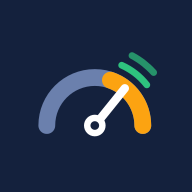
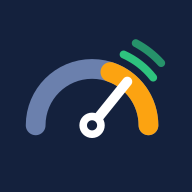
Icône sans bordure, dessin agrandi (même taille que le logiciel) (20261126084854)
Claude-Session: https://claude.ai/code/session_01SWG2T8y1WjfyaaCQCcHqA4

Changed region(s): [[0.125, 0.1875, 0.875, 0.7188]]

diff --git a/index.html b/index.html
@@ -10,10 +10,10 @@
 <meta name="apple-mobile-web-app-status-bar-style" content="default">
 <meta name="mobile-web-app-capable" content="yes">
 <meta name="apple-mobile-web-app-title" content="MCS Suivi">
-<link rel="manifest" href="manifest.webmanifest?v=2">
-<link rel="apple-touch-icon" href="icon-192.png?v=2">
+<link rel="manifest" href="manifest.webmanifest?v=3">
+<link rel="apple-touch-icon" href="icon-192.png?v=3">
 <title>MCS Suivi</title>
-<meta name="mcs-build" content="20261126084620">
+<meta name="mcs-build" content="20261126084854">
 <script>
 // GitHub Pages garde la page 10 min en cache : à chaque ouverture, on relit la version en ligne (adresse unique = pas de cache)
 // et on recharge aussitôt si elle est plus récente. Les mises à jour arrivent ainsi dès la publication.
@@ -22,7 +22,7 @@
     var mine = document.querySelector('meta[name="mcs-build"]').content;
     fetch(location.pathname + '?check=' + Date.now(), { cache: 'no-store' }).then(function(r){ return r.text(); }).then(function(t){
       var m = t.match(/name="mcs-build" content="([^"]+)"/);
-      if (m && m[1] !== mine && m[1] !== '20261126084620') location.replace(location.pathname + '?b=' + m[1]);
+      if (m && m[1] !== mine && m[1] !== '20261126084854') location.replace(location.pathname + '?b=' + m[1]);
     }).catch(function(){});
   } catch(e) {}
 })();
